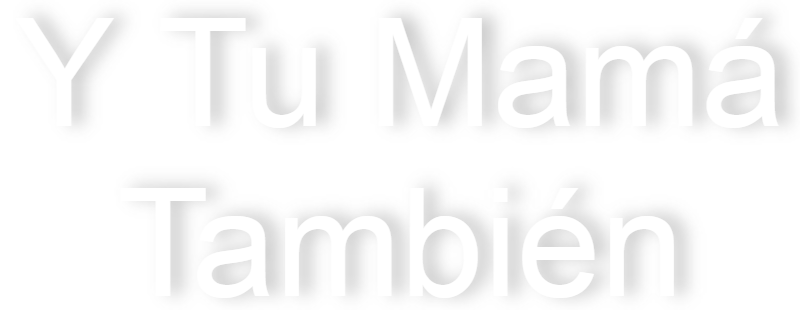
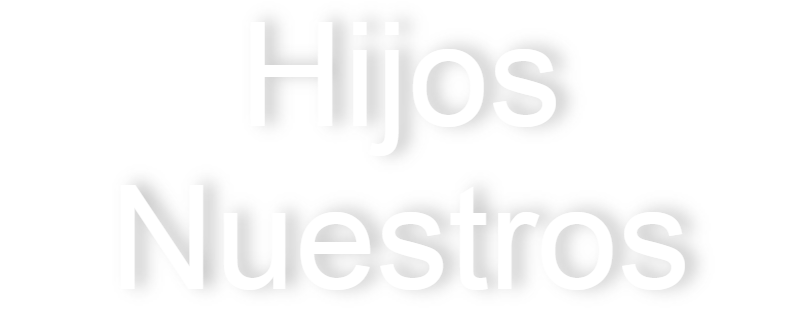
library commit

diff --git a/build/static/js/main.c47566d1.chunk.js b/build/static/js/main.c47566d1.chunk.js
@@ -1,0 +1,2 @@
+(this["webpackJsonpamazon-clone"]=this["webpackJsonpamazon-clone"]||[]).push([[5],{1070:function(e,a){},1075:function(e,a){},1088:function(e,a){},1125:function(e,a){},1127:function(e,a){},1133:function(e,a){},1145:function(e,a){},1148:function(e,a){},1154:function(e,a){},1165:function(e,a){},1228:function(e,a,t){},1229:function(e,a,t){"use strict";t.r(a);var n=t(0),i=t.n(n),o=t(266),s=t.n(o),r=(t(601),t(23)),c=t(9),l=t(48),d=t(1),m=t.n(d),h=t(137),u=(t(602),t(362),t(6)),p=function(){return Object(u.jsx)("div",{children:Object(u.jsx)("svg",{xmlns:"http://www.w3.org/2000/svg",width:"109.4",height:"27.6742",viewBox:"0 0 1049 130",children:Object(u.jsx)("path",{d:"M99.0114 4.36363V128H84.5227L17.1506 30.9261H15.9432V128H0.971592V4.36363H15.4602L83.0739 101.679H84.2812V4.36363H99.0114ZM165.916 129.932C156.981 129.932 149.274 127.96 142.794 124.016C136.355 120.031 131.384 114.477 127.883 107.354C124.422 100.19 122.691 91.8589 122.691 82.3608C122.691 72.8627 124.422 64.4915 127.883 57.2472C131.384 49.9626 136.254 44.2879 142.492 40.223C148.771 36.1179 156.096 34.0653 164.467 34.0653C169.296 34.0653 174.066 34.8703 178.774 36.4801C183.483 38.09 187.769 40.706 191.633 44.3281C195.497 47.91 198.575 52.6591 200.87 58.5753C203.164 64.4915 204.311 71.776 204.311 80.429V86.4659H132.833V74.1506H189.822C189.822 68.9186 188.776 64.25 186.683 60.1449C184.63 56.0398 181.692 52.7999 177.869 50.4254C174.086 48.0509 169.618 46.8636 164.467 46.8636C158.792 46.8636 153.882 48.2723 149.737 51.0895C145.632 53.8665 142.472 57.4886 140.259 61.956C138.045 66.4233 136.938 71.2126 136.938 76.3239V84.5341C136.938 91.5369 138.146 97.4732 140.561 102.343C143.016 107.173 146.416 110.855 150.763 113.391C155.11 115.886 160.16 117.134 165.916 117.134C169.659 117.134 173.039 116.61 176.058 115.564C179.116 114.477 181.753 112.867 183.966 110.734C186.18 108.561 187.89 105.865 189.097 102.645L202.862 106.509C201.413 111.177 198.978 115.282 195.557 118.824C192.136 122.325 187.91 125.062 182.879 127.034C177.849 128.966 172.194 129.932 165.916 129.932ZM246.992 128L218.739 35.2727H233.71L253.753 106.267H254.719L274.52 35.2727H289.733L309.293 106.026H310.259L330.301 35.2727H345.273L317.02 128H303.014L282.73 56.7642H281.281L260.997 128H246.992ZM366.04 128V4.36363H440.173V17.6449H381.012V59.4205H434.619V72.7017H381.012V128H366.04ZM463.884 128V35.2727H478.131V128H463.884ZM471.128 19.8182C468.351 19.8182 465.956 18.8724 463.944 16.9808C461.972 15.0893 460.986 12.8153 460.986 10.1591C460.986 7.50284 461.972 5.22893 463.944 3.33735C465.956 1.44578 468.351 0.5 471.128 0.5C473.905 0.5 476.279 1.44578 478.251 3.33735C480.264 5.22893 481.27 7.50284 481.27 10.1591C481.27 12.8153 480.264 15.0893 478.251 16.9808C476.279 18.8724 473.905 19.8182 471.128 19.8182ZM518.472 4.36363V128H504.225V4.36363H518.472ZM544.567 128V35.2727H558.331V49.7614H559.539C561.471 44.8111 564.59 40.9676 568.896 38.2308C573.202 35.4538 578.374 34.0653 584.411 34.0653C590.528 34.0653 595.619 35.4538 599.684 38.2308C603.789 40.9676 606.989 44.8111 609.283 49.7614H610.249C612.623 44.9721 616.185 41.1688 620.934 38.3516C625.683 35.4941 631.378 34.0653 638.019 34.0653C646.31 34.0653 653.091 36.6612 658.363 41.853C663.636 47.0045 666.272 55.0336 666.272 65.9403V128H652.025V65.9403C652.025 59.0985 650.153 54.2086 646.41 51.2706C642.667 48.3326 638.26 46.8636 633.189 46.8636C626.669 46.8636 621.618 48.8357 618.037 52.7798C614.455 56.6837 612.664 61.634 612.664 67.6307V128H598.175V64.4915C598.175 59.2192 596.465 54.9732 593.044 51.7535C589.623 48.4936 585.216 46.8636 579.823 46.8636C576.12 46.8636 572.659 47.8497 569.439 49.8217C566.26 51.7938 563.684 54.5305 561.712 58.032C559.78 61.4931 558.814 65.4976 558.814 70.0455V128H544.567ZM679.689 17.6449V4.36363H772.416V17.6449H733.538V128H718.567V17.6449H679.689ZM819.021 129.932C810.086 129.932 802.379 127.96 795.9 124.016C789.46 120.031 784.49 114.477 780.988 107.354C777.527 100.19 775.797 91.8589 775.797 82.3608C775.797 72.8627 777.527 64.4915 780.988 57.2472C784.49 49.9626 789.36 44.2879 795.598 40.223C801.876 36.1179 809.201 34.0653 817.572 34.0653C822.402 34.0653 827.171 34.8703 831.88 36.4801C836.589 38.09 840.875 40.706 844.738 44.3281C848.602 47.91 851.681 52.6591 853.975 58.5753C856.269 64.4915 857.416 71.776 857.416 80.429V86.4659H785.939V74.1506H842.927C842.927 68.9186 841.881 64.25 839.788 60.1449C837.736 56.0398 834.798 52.7999 830.974 50.4254C827.191 48.0509 822.724 46.8636 817.572 46.8636C811.898 46.8636 806.988 48.2723 802.842 51.0895C798.737 53.8665 795.578 57.4886 793.364 61.956C791.151 66.4233 790.044 71.2126 790.044 76.3239V84.5341C790.044 91.5369 791.251 97.4732 793.666 102.343C796.121 107.173 799.522 110.855 803.868 113.391C808.215 115.886 813.266 117.134 819.021 117.134C822.764 117.134 826.145 116.61 829.163 115.564C832.222 114.477 834.858 112.867 837.072 110.734C839.285 108.561 840.996 105.865 842.203 102.645L855.967 106.509C854.518 111.177 852.083 115.282 848.662 118.824C845.242 122.325 841.016 125.062 835.985 127.034C830.954 128.966 825.3 129.932 819.021 129.932ZM916.759 129.932C908.066 129.932 900.58 127.879 894.302 123.774C888.023 119.669 883.194 114.014 879.813 106.81C876.432 99.6063 874.742 91.3759 874.742 82.1193C874.742 72.7017 876.473 64.3909 879.934 57.1868C883.435 49.9425 888.305 44.2879 894.543 40.223C900.822 36.1179 908.146 34.0653 916.518 34.0653C923.037 34.0653 928.913 35.2727 934.145 37.6875C939.377 40.1023 943.664 43.483 947.004 47.8295C950.345 52.1761 952.417 57.2472 953.222 63.0426H938.975C937.888 58.8168 935.474 55.0739 931.731 51.8139C928.028 48.5137 923.037 46.8636 916.759 46.8636C911.205 46.8636 906.335 48.3125 902.15 51.2102C898.004 54.0677 894.765 58.1124 892.43 63.3445C890.136 68.5362 888.989 74.6335 888.989 81.6364C888.989 88.8002 890.116 95.0384 892.37 100.351C894.664 105.663 897.884 109.789 902.029 112.727C906.215 115.665 911.125 117.134 916.759 117.134C920.462 117.134 923.822 116.49 926.841 115.202C929.859 113.914 932.415 112.062 934.508 109.648C936.6 107.233 938.09 104.335 938.975 100.955H953.222C952.417 106.428 950.425 111.358 947.246 115.745C944.106 120.092 939.941 123.553 934.749 126.129C929.598 128.664 923.601 129.932 916.759 129.932ZM988.297 72.2188V128H974.05V4.36363H988.297V49.7614H989.504C991.677 44.9721 994.937 41.1688 999.284 38.3516C1003.67 35.4941 1009.51 34.0653 1016.79 34.0653C1023.11 34.0653 1028.64 35.3331 1033.39 37.8686C1038.14 40.3639 1041.82 44.2074 1044.44 49.3991C1047.1 54.5507 1048.42 61.1108 1048.42 69.0795V128H1034.18V70.0455C1034.18 62.6804 1032.27 56.9856 1028.44 52.9609C1024.66 48.8961 1019.41 46.8636 1012.69 46.8636C1008.02 46.8636 1003.83 47.8497 1000.13 49.8217C996.467 51.7938 993.569 54.6714 991.436 58.4545C989.343 62.2377 988.297 66.8258 988.297 72.2188Z",fill:"white"})})})},b=t(62),g=t.p+"static/media/titanicScene.909e8881.png",f=t.p+"static/media/tit.1d9d7c71.png",j=(t.p,t.p+"static/media/spidey.eb6a1f82.png"),C=t.p+"static/media/jumanji.efe29389.png",v=t.p+"static/media/wolf.5c663605.png",x=t.p+"static/media/mrs.f7b9879c.png",y=t.p+"static/media/hob.4adfa805.png",O=(t.p,t.p,t.p+"static/media/moralis.bd32f8cb.png"),w=(t.p,t.p,t.p+"static/media/jam.8a478866.png"),D=(t.p,t.p,t.p+"static/media/bayw.d9b5bae2.png"),M=t.p+"static/media/shrek.a2808d64.png",N=t.p+"static/media/lucy.221a740f.png",A=t.p+"static/media/topgu.a9eb51b4.png",L=t.p+"static/media/imit.61aac537.png",H=t.p+"static/media/reven.7d949cd2.png",S=t.p+"static/media/tomb.7cdfcde8.png",V=t.p+"static/media/amaz.d2321471.png",G=t.p+"static/media/bigs.9c733b13.png",k=t.p+"static/media/secona.b0359c1b.png",T=t.p+"static/media/ted.0cae77f5.png",z=t.p+"static/media/amerp.f58c79b2.png",Y=t.p+"static/media/caballeroaguilatext.45a4a5da.png",F=t.p+"static/media/desiertotext.0bfd42c3.png",I=t.p+"static/media/despuesdeluciatext.5d64975f.png",P=t.p+"static/media/entrevivasyalabadostext.7ec3c673.png",K=t.p+"static/media/fogotext.a9f2adac.png",E=t.p+"static/media/guerostext.7c4fb30c.png",B=t.p+"static/media/juanoroltext.d6501ec7.png",R=t.p+"static/media/lanocheasturianatext.7b92454f.png",Z=t.p+"static/media/losdeabajotext.6dd28f07.png",J=t.p+"static/media/losmuertostext.baf91ba7.png",X=t.p+"static/media/losultimostext.c5ab3f99.png",q=t.p+"static/media/maimoriretext.814025c4.png",Q=t.p+"static/media/readyornottext.c63a398e.png",U=t.p+"static/media/rectorectoganchotext.f04abe4f.png",W=t.p+"static/media/tautext.ebc8e691.png",$=t.p+"static/media/tempestadtext.5248f57f.png",_=t.p+"static/media/tiemposfelicestext.6f1c4c3d.png",ee=t.p+"static/media/verloendomingotext.f33ffa80.png",ae=t.p+"static/media/yanoestoyaquitext.ea184cf5.png",te=t.p+"static/media/ytumamatambientext.f40c0670.png",ne=t.p+"static/media/desiertoescena.6ed799b3.png",ie=t.p+"static/media/despuesdelucia2escena.5d45a4b4.png",oe=t.p+"static/media/entrevivasyalabadosescena.bd0d9d6c.png",se=t.p+"static/media/fogoescena.14b082ec.png",re=t.p+"static/media/guerosescena.8e1b5c7d.png",ce=t.p+"static/media/juanorolescena.9767f279.png",le=t.p+"static/media/lanocheasturianaescena.3cb62b16.png",de=t.p+"static/media/losdeabajoescena.87130e07.png",me=t.p+"static/media/losmuertosescena.738ee370.png",he=t.p+"static/media/losultimosescena.db52a7b9.png",ue=t.p+"static/media/maimorireescena.be4246a1.png",pe=t.p+"static/media/readyornotescena.9f876f7b.png",be=t.p+"static/media/rectorectoganchoescena.d283b4ea.png",ge=t.p+"static/media/tauescena.8c655001.png",fe=t.p+"static/media/tempestadescena.fb2850dc.png",je=t.p+"static/media/tiemposfelices2escena.e808f80f.png",Ce=(t.p,t.p+"static/media/verloendomingoescena.0320e00b.png"),ve=t.p+"static/media/yanoestoyaquiescena.d6c62cb8.png",xe=[{Movie:"https://ipfs.io/ipfs/QmXbyGe8YWME5anef6Vvc4NooxUCdGgy4BQ5e8CespGeJ3?filename=0.mp4",Thumnbnail:f,Scene:g,Logo:Y,Name:"Caballero \xc1guila",Description:"Upon finishing high school, three friends must choose the path their lives will take. Pastor dreams of flying and the love of Flor, the sister of a jealous Nacho, who will look for an easy way out by enlisting in the ranks of crime.",Genre:"Action-Adventure, Drama",Actors:"Luis Alberti, Mar\xeda Cid",Year:"2022",Duration:"98 min"},{Movie:"https://ipfs.io/ipfs/Qme3dgQmNNXwMgvKWRmg5DxMiEYKu2v9gMSNuwJS7LD5K6?filename=1a.mp4",Thumnbnail:j,Scene:ce,Logo:B,Name:"El Fant\xe1stico Mundo de Juan Orol",Description:"The film freely narrates the biography of one of the icons in the history of Mexican cinema: Juan Orol, a man of Galician origin who, after various adventures, arrived in Mexico to become, involuntarily, the creator of several cinematographic genres, among which the Rumberas Cinema and the Gangster Cinema stand out, obtaining enormous success at the box office but with terrible reviews. He became known as the involuntary surrealist.",Genre:"Black-Comedy, Biopic",Actors:"Roberto Sosa, Ximena Rubio, Gabriela de la Garza",Year:"2012",Duration:"94 min"},{Movie:"https://ipfs.io/ipfs/QmPRHxDPo7eePL2JdYEt9ohwEhVQZqPSVd3WdGWQg3EK21?filename=2.mp4",Thumnbnail:C,Scene:je,Logo:_,Name:"Tiempos Felices",Description:"Max is a young man who, fed up with his relationship, has tried everything to break up with his girlfriend, but he can't do it. Desperate, he hires the services of a breakup agency, only to discover that there is no perfect solution.",Genre:"Comedy",Actors:"Cassandra Ciangherotti, Luis Arrieta",Year:"2015",Duration:"88 min"},{Movie:"",Thumnbnail:O,Scene:ue,Logo:q,Name:"Mai Morire",Description:"Chayo returns to Xochimilco to care for her elderly mother, but the comfort of traditional life makes her choose a marriage that will make her abandon her ideals. Her particular perceptions and her absolute faith in life will force her to commit the greatest sacrifice a mother can make.",Genre:"Rural Drama",Actors:"Margarita Salda\xf1a, Amalia Salas, Juan Chirinos",Year:"2012",Duration:"89 min"},{Movie:"",Thumnbnail:v,Scene:me,Logo:J,Name:"Los Muertos",Description:"A weekend in the lives of five wealthy young people, whose common characteristic is apathy and excess, is interrupted by the momentary appearance of national violence and the accidental death of one of its members.",Genre:"Drama",Actors:"Elena Larrea, Ignacio Beteta, Santiago Corcuera",Year:"2014",Duration:"89 min"},{Movie:"",Thumnbnail:x,Scene:ge,Logo:W,Name:"T\xe1u",Description:"T\xe1u is the story of Gustavo (Brontis Jodorowsky), a man who travels to the Wirikuta desert, where he will confront his deepest pain.",Genre:"Drama",Actors:"Brontis Jodorowsky, Mariana Gonzal\xe9z",Year:"2012",Duration:"80 min"},{Movie:"",Thumnbnail:w,Scene:le,Logo:R,Name:"La Noche Asturiana",Description:"Direcci\xf3n / Diego Graue, M\xfasica original / Pablo Acevedo, Productor / Juan Sarquis, Fotograf\xeda / Felipe Perez Bouchard, Productora /Filmaciones de la Ciudad.",Genre:"Drama",Actors:"Rene Reyes, Mau Escobar",Year:"2015",Duration:"145 min"},{Movie:"",Thumnbnail:y,Scene:se,Logo:K,Name:"Fogo",Description:"An unknown phenomenon threatens the lives of the rural community of Fogo, located on a small island in the region of Newfoundland, Canada. It has already been almost completely abandoned. Although the chances of surviving there are slim, some residents cling to the place.",Genre:"Drama, Documental",Actors:"Norman Foley, Ron Broders, Joseph Dwyer",Year:"2012",Duration:"61 min"},{Movie:"",Thumnbnail:M,Scene:Ce,Logo:ee,Name:"Verlo en Domingo",Description:"After a night of drinking a city dweller - Domingo- is caught in a fight with the neighborhoods mechanic. Therefore he decides to avoid problems through his escape, and makes his way to Acapulco Bay; this being his first adventure away from Mexico city. On the road to the beach, he will meet a woman who will make him choose between fulfilling their love or his dream to see the sea for the first time.",Genre:"Adventure, Drama, Romance",Actors:"Ramon \xc1lvarez, Mireille Anaya",Year:"2009",Duration:"16 min"},{Movie:"",Thumnbnail:H,Scene:pe,Logo:Q,Name:"Ready or Not",Description:"Four college buddies find themselves on the adventure of their lives, when on the morning after a Las Vegas bachelor party, they end up stranded deep in Mexico penniless, being chased, falling in love, and fighting to make it back across the border in time for the wedding.",Genre:"Comedy",Actors:"Christian Oliver, Seamus Dever, Evan Helmuth",Year:"2009",Duration:"88 min"},{Movie:"",Thumnbnail:L,Scene:be,Logo:U,Name:"Recto Recto Gancho",Description:"The legendary 'Faraonica San Juan Boxing Arena' is once again the scenario for an epic encounter, this time between 'Choko' Tabarez and 'Duvalin' Espadas. Everything seems to be ready to enjoy round after round of pugilist talent, when all of a sudden, an unexpected uppercut changes the outcome of the fight and the course of the night for all those present.",Genre:"Short, Action, Comedy, Sport",Actors:"Marco Aurelio, Alejandro Bl\xe1zquez, Alfonso Borbolla",Year:"2010",Duration:"11 min"},{Movie:"",Thumnbnail:A,Scene:he,Logo:X,Name:"Los \xdaltimos",Description:"Direcci\xf3n: Santiago F\xe1bregas, Producci\xf3n: Mariana Rodr\xedguez Cabarga y Gabriel Stavenhagen, Fotograf\xeda: Ximena del Valle, Dise\xf1o Sonoro: Enrique Dom\xednguez, Edici\xf3n: Branko G\xf3mez- Palacio, Direcci\xf3n de Arte: Pedro Pablo Etienne, M\xfasica: Ra\xfal Vizzi",Genre:"Short Film",Actors:"n/a",Year:"2012",Duration:"14 min"},{Movie:"",Thumnbnail:N,Scene:t.p+"static/media/ytumamatambienescena.21d9fc19.png",Logo:te,Name:"Hijos Nuestros",Description:"Sometimes links can be built from passions. Sometimes those bonds can turn into passions. A fanatic Buenos Aires taxi driver from San Lorenzo crosses paths with a single mother and her son.",Genre:"Drama",Actors:"Carlos Portaluppi, Ana Katz, Valent\xedn Greco",Year:"2015",Duration:"87 min"},{Movie:"",Thumnbnail:D,Scene:ve,Logo:ae,Name:"El Verano que te Vimos",Description:"After a year without seeing each other, a group of friends gets together to spend the New Year's in the countryside. During the next days, unsolved problems and tensions from the past will surface that need to be faced sooner or later.",Genre:"Drama",Actors:"Ary Aguil\xf3, Santiago Luna, Camila Murias",Year:"2021",Duration:"80 min"},{Movie:"",Thumnbnail:S,Scene:de,Logo:Z,Name:"Los de abajo",Description:"Mexican author Mariano Azuela's novel about a peasant who joins a group of rebels who fight in the Mexican Revolution.",Genre:"Drama / World Cinema",Actors:"Eric del Castillo, Enrique Lucero",Year:"1978",Duration:"115 min"},{Movie:"",Thumnbnail:V,Scene:fe,Logo:$,Name:"Tempestad",Description:"A documentary film about the unspeakable abyss in the lives of two women, one deprived of her liberty and the other marked by the absence of her disappeared daughter. Through images that immerse us in a journey from north to south in Mexico, the testimonies of Miriam and Adela configure a reality where violence has taken control of our lives, our desires and dreams.",Genre:"Documentary",Actors:"Miriam Carvajal y Adela Alvarado",Year:"2016",Duration:"105 min"},{Movie:"",Thumnbnail:G,Scene:re,Logo:E,Name:"Un d\xeda en la vida de La\xeda",Description:"A day in the life of a Mexico City runner preparing herself for her biggest race. Reminiscing on how it all started by following her true convictions and beliefs she unlocks her full potential while remaining level headed, humble and fun.",Genre:"Documentary",Actors:"n/a",Year:"2011",Duration:"n/a"},{Movie:"",Thumnbnail:k,Scene:ne,Logo:F,Name:"Desierto",Description:"A group of people trying to cross the border from Mexico into the United States encounter a racist man who has taken border patrol duties into his own hands.",Genre:"Action, Adventure, Thriller",Actors:"Gael Garc\xeda Bernal, Jeffrey Dean Morgan, Alondra Hidalgo ",Year:"2015",Duration:"88 min"},{Movie:"",Thumnbnail:T,Scene:oe,Logo:P,Name:"Entre Vivas y Alabados: La fiesta grande de Chapa de Corso",Description:"Documentary that explores the tradition and its meanings within the great festival of January in Chiapa de Corso, a beautiful town on the banks of the Grijalba River, at the gate of the Sump Canyon, in the state of Chiapas. A waste of joy, color and celebration accompanied by the traditional music of the region and the unmistakable dances of the Parachico and the Chunta.",Genre:"Documentary",Actors:"n/a",Year:"2012",Duration:"n/a"},{Movie:"",Thumnbnail:z,Scene:ie,Logo:I,Name:"Despu\xe9s de Luc\xeda",Description:"Alejandra and her dad Roberto have just moved to town. She is new at school, he has a new job. Starting over is sometimes complicated when you have left so much behind.",Genre:"Drama",Actors:"Tessa Ia, Hern\xe1n Mendoza, Gonzalo Vega Jr.",Year:"2012",Duration:"103 min"}],ye=t.p+"static/media/nwftlogosmall.a905a5dd.png",Oe=t(107),we=function(){var e=Object(n.useState)(!1),a=Object(l.a)(e,2),t=a[0],i=a[1],o=Object(n.useState)(),s=Object(l.a)(o,2),r=s[0],d=s[1],g=Object(Oe.b)(),f=g.isAuthenticated,j=g.Moralis,C=g.account,v=Object(n.useState)(),x=Object(l.a)(v,2),y=x[0],O=x[1];Object(n.useEffect)((function(){function e(){return(e=Object(c.a)(m.a.mark((function e(){var a,t;return m.a.wrap((function(e){for(;;)switch(e.prev=e.next){case 0:return e.next=2,j.start({serverUrl:"https://if2xxpzacmpo.usemoralis.com:2053/server",appId:"M63Svb49HZGjjHfN12sIt3IXcMEKKK3KZri2Tcli"});case 2:return console.log(C),e.next=5,j.Cloud.run("getMyList",{addrs:C});case 5:a=e.sent,t=xe.filter((function(e){return a.indexOf(e.Name)>-1})),O(t);case 8:case"end":return e.stop()}}),e)})))).apply(this,arguments)}f&&function(){e.apply(this,arguments)}(),console.log(f)}),[C,j,f]);var w=Object(b.h)(),D=function(){w({type:"error",message:"Pleaser Connect Your Crypto Wallet",title:"Not Authenticated",position:"topL"})};return Object(u.jsxs)(u.Fragment,{children:[Object(u.jsx)("div",{className:"logo",children:Object(u.jsx)(p,{children:Object(u.jsx)("img",{src:ye,width:"100",height:"100"})})}),Object(u.jsx)("div",{className:"connect",children:Object(u.jsx)(b.b,{})}),Object(u.jsxs)("div",{className:"topBanner",children:[Object(u.jsxs)(b.g,{style:{zIndex:3},defaultActiveKey:1,tabStyle:"bar",children:[Object(u.jsx)(b.f,{}),Object(u.jsx)(b.f,{tabKey:7,tabName:"   ",style:{zIndex:1}}),Object(u.jsx)(b.f,{tabKey:6,tabName:"   ",style:{zIndex:1}}),Object(u.jsx)(b.f,{tabKey:5,tabName:"",style:{zIndex:1}}),Object(u.jsx)(b.f,{tabKey:4,tabName:"",style:{zIndex:1}}),Object(u.jsxs)(b.f,{tabKey:1,tabName:"Catalog",style:{zIndex:3},children:[Object(u.jsxs)("div",{className:"scene",children:[Object(u.jsx)("div",{children:Object(u.jsx)("p",{})}),Object(u.jsx)("img",{src:xe[0].Scene,className:"sceneImg",alt:""}),Object(u.jsx)("img",{className:"sceneLogo",src:xe[0].Logo,alt:""}),Object(u.jsx)("p",{className:"sceneDesc",children:xe[0].Description})]}),Object(u.jsx)("div",{className:"title",children:"Movies"}),Object(u.jsx)("div",{className:"thumbs",children:xe&&xe.map((function(e,a){return Object(u.jsx)("img",{src:e.Thumnbnail,className:"thumbnail",alt:"",onClick:function(){d(e),i(!0)}},a)}))})]}),Object(u.jsx)(b.f,{tabKey:3,tabName:"MyList",style:{zIndex:3},children:Object(u.jsxs)("div",{className:"ownListContent",children:[Object(u.jsx)("div",{className:"title",children:"Your Library"}),y&&f?Object(u.jsx)(u.Fragment,{children:Object(u.jsx)("div",{className:"ownThumbs",children:y.map((function(e,a){return Object(u.jsx)("img",{src:e.Thumnbnail,className:"thumbnail",alt:"",onClick:function(){d(e),i(!0)}},a)}))})}):Object(u.jsx)("div",{className:"ownThumbs",children:"You need to Authenicate to view your own list"})]})})]}),r&&Object(u.jsx)("div",{className:"modal",children:Object(u.jsx)(b.d,{onCloseButtonPressed:function(){return i(!1)},isVisible:t,hasFooter:!1,width:"1000px",children:Object(u.jsxs)("div",{className:"modalContent",children:[Object(u.jsx)("img",{src:r.Scene,className:"modalImg",alt:""}),Object(u.jsx)("img",{className:"modalLogo",src:r.Logo,alt:""}),Object(u.jsx)("div",{className:"modalPlayButton",children:f?Object(u.jsxs)(u.Fragment,{children:[Object(u.jsx)(h.b,{to:"/player",state:r.Movie,children:Object(u.jsx)(b.a,{icon:"chevronRightX2",text:"Play",theme:"secondary",type:"button"})}),Object(u.jsx)(b.a,{icon:"plus",text:"Generate Token",theme:"translucent",type:"button",onClick:Object(c.a)(m.a.mark((function e(){return m.a.wrap((function(e){for(;;)switch(e.prev=e.next){case 0:return e.next=2,j.Cloud.run("updateMyList",{addrs:C,newFav:r.Name});case 2:w({type:"success",message:"Movie Added to List",title:"Success",position:"topL"});case 3:case"end":return e.stop()}}),e)})))})]}):Object(u.jsxs)(u.Fragment,{children:[Object(u.jsx)(b.a,{icon:"chevronRightX2",text:"Play",theme:"secondary",type:"button",onClick:D}),Object(u.jsx)(b.a,{icon:"plus",text:"Movie Token",theme:"translucent",type:"button",onClick:D})]})}),Object(u.jsxs)("div",{className:"movieInfo",children:[Object(u.jsxs)("div",{className:"description",children:[Object(u.jsxs)("div",{className:"details",children:[Object(u.jsx)("span",{children:r.Year}),Object(u.jsx)("span",{children:r.Duration})]}),r.Description]}),Object(u.jsxs)("div",{className:"detailedInfo",children:["Genre:",Object(u.jsx)("span",{className:"deets",children:r.Genre}),Object(u.jsx)("br",{}),"Actors:",Object(u.jsx)("span",{className:"deets",children:r.Actors}),Object(u.jsx)("div",{})]})]})]})})})]})]})},De=function(){var e=Object(r.e)().state;return Object(u.jsx)(u.Fragment,{children:Object(u.jsxs)("div",{className:"playerPage",children:[Object(u.jsx)("video",{autoPlay:!0,controls:!0,className:"videoPlayer",children:Object(u.jsx)("source",{src:e,type:"video/mp4"})}),Object(u.jsx)("div",{className:"backHome",children:Object(u.jsx)(h.b,{to:"/",children:Object(u.jsx)(b.c,{className:"backButton",fill:"rgba(255,255,255,0.25)",size:60,svg:"arrowCircleLeft"})})})]})})},Me=(t(1228),function(){return Object(u.jsx)("div",{className:"appDiv",children:Object(u.jsxs)(r.c,{children:[Object(u.jsx)(r.a,{path:"/",element:Object(u.jsx)(we,{})}),Object(u.jsx)(r.a,{path:"/player",element:Object(u.jsx)(De,{})})]})})}),Ne=function(e){e&&e instanceof Function&&t.e(18).then(t.bind(null,1443)).then((function(a){var t=a.getCLS,n=a.getFID,i=a.getFCP,o=a.getLCP,s=a.getTTFB;t(e),n(e),i(e),o(e),s(e)}))};s.a.render(Object(u.jsxs)(i.a.StrictMode,{children:[Object(u.jsx)(Oe.a,{appId:"M63Svb49HZGjjHfN12sIt3IXcMEKKK3KZri2Tcli",serverUrl:"https://if2xxpzacmpo.usemoralis.com:2053/server"}),Object(u.jsx)(Oe.a,{appId:"M63Svb49HZGjjHfN12sIt3IXcMEKKK3KZri2Tcli",serverUrl:"https://if2xxpzacmpo.usemoralis.com:2053/server",children:Object(u.jsx)(b.e,{children:Object(u.jsx)(h.a,{children:Object(u.jsx)(Me,{})})})})]}),document.getElementById("root")),Ne()},362:function(e,a,t){},601:function(e,a,t){},602:function(e,a,t){},869:function(e,a){},877:function(e,a){},900:function(e,a){},941:function(e,a){},943:function(e,a){},962:function(e,a){},964:function(e,a){},976:function(e,a){},977:function(e,a){},991:function(e,a){},993:function(e,a){}},[[1229,6,7]]]);
+//# sourceMappingURL=main.c47566d1.chunk.js.map

diff --git a/build/index.html b/build/index.html
@@ -1,1 +1,1 @@
-<!doctype html><html lang="en"><head><meta charset="utf-8"/><link rel="icon" href="/favicon.ico"/><meta name="viewport" content="width=device-width,initial-scale=1"/><meta name="theme-color" content="#000000"/><meta name="description" content="Web site created using create-react-app"/><link rel="apple-touch-icon" href="/logo192.png"/><link rel="manifest" href="/manifest.json"/><script src="https://cdn.jsdelivr.net/npm/magic-sdk/dist/magic.js"></script><title>NewFilmTech</title><link href="/static/css/main.882fca76.chunk.css" rel="stylesheet"></head><body><noscript>You need to enable JavaScript to run this app.</noscript><div id="root"></div><script>!function(e){function r(r){for(var n,u,c=r[0],i=r[1],f=r[2],s=0,p=[];s<c.length;s++)u=c[s],Object.prototype.hasOwnProperty.call(o,u)&&o[u]&&p.push(o[u][0]),o[u]=0;for(n in i)Object.prototype.hasOwnProperty.call(i,n)&&(e[n]=i[n]);for(l&&l(r);p.length;)p.shift()();return a.push.apply(a,f||[]),t()}function t(){for(var e,r=0;r<a.length;r++){for(var t=a[r],n=!0,c=1;c<t.length;c++){var i=t[c];0!==o[i]&&(n=!1)}n&&(a.splice(r--,1),e=u(u.s=t[0]))}return e}var n={},o={6:0},a=[];function u(r){if(n[r])return n[r].exports;var t=n[r]={i:r,l:!1,exports:{}};return e[r].call(t.exports,t,t.exports,u),t.l=!0,t.exports}u.e=function(e){var r=[],t=o[e];if(0!==t)if(t)r.push(t[2]);else{var n=new Promise((function(r,n){t=o[e]=[r,n]}));r.push(t[2]=n);var a,c=document.createElement("script");c.charset="utf-8",c.timeout=120,u.nc&&c.setAttribute("nonce",u.nc),c.src=function(e){return u.p+"static/js/"+({}[e]||e)+"."+{0:"814b9e30",1:"0c1d21a1",2:"59698f9f",3:"ddfc217c",4:"b21f5d2b",8:"3dc01ecc",9:"057af21a",10:"6f61e390",11:"7c291ff8",12:"068d73a4",13:"ef935d20",14:"ab4855c4",15:"6ef57f32",16:"d5ea8d0e",17:"9b958bbe",18:"bfaab614"}[e]+".chunk.js"}(e);var i=new Error;a=function(r){c.onerror=c.onload=null,clearTimeout(f);var t=o[e];if(0!==t){if(t){var n=r&&("load"===r.type?"missing":r.type),a=r&&r.target&&r.target.src;i.message="Loading chunk "+e+" failed.\n("+n+": "+a+")",i.name="ChunkLoadError",i.type=n,i.request=a,t[1](i)}o[e]=void 0}};var f=setTimeout((function(){a({type:"timeout",target:c})}),12e4);c.onerror=c.onload=a,document.head.appendChild(c)}return Promise.all(r)},u.m=e,u.c=n,u.d=function(e,r,t){u.o(e,r)||Object.defineProperty(e,r,{enumerable:!0,get:t})},u.r=function(e){"undefined"!=typeof Symbol&&Symbol.toStringTag&&Object.defineProperty(e,Symbol.toStringTag,{value:"Module"}),Object.defineProperty(e,"__esModule",{value:!0})},u.t=function(e,r){if(1&r&&(e=u(e)),8&r)return e;if(4&r&&"object"==typeof e&&e&&e.__esModule)return e;var t=Object.create(null);if(u.r(t),Object.defineProperty(t,"default",{enumerable:!0,value:e}),2&r&&"string"!=typeof e)for(var n in e)u.d(t,n,function(r){return e[r]}.bind(null,n));return t},u.n=function(e){var r=e&&e.__esModule?function(){return e.default}:function(){return e};return u.d(r,"a",r),r},u.o=function(e,r){return Object.prototype.hasOwnProperty.call(e,r)},u.p="/",u.oe=function(e){throw console.error(e),e};var c=this["webpackJsonpamazon-clone"]=this["webpackJsonpamazon-clone"]||[],i=c.push.bind(c);c.push=r,c=c.slice();for(var f=0;f<c.length;f++)r(c[f]);var l=i;t()}([])</script><script src="/static/js/7.251ce498.chunk.js"></script><script src="/static/js/main.89c0d54a.chunk.js"></script></body></html>
+<!doctype html><html lang="en"><head><meta charset="utf-8"/><link rel="icon" href="/favicon.ico"/><meta name="viewport" content="width=device-width,initial-scale=1"/><meta name="theme-color" content="#000000"/><meta name="description" content="Web site created using create-react-app"/><link rel="apple-touch-icon" href="/logo192.png"/><link rel="manifest" href="/manifest.json"/><script src="https://cdn.jsdelivr.net/npm/magic-sdk/dist/magic.js"></script><title>NewFilmTech</title><link href="/static/css/main.882fca76.chunk.css" rel="stylesheet"></head><body><noscript>You need to enable JavaScript to run this app.</noscript><div id="root"></div><script>!function(e){function r(r){for(var n,u,c=r[0],i=r[1],f=r[2],s=0,p=[];s<c.length;s++)u=c[s],Object.prototype.hasOwnProperty.call(o,u)&&o[u]&&p.push(o[u][0]),o[u]=0;for(n in i)Object.prototype.hasOwnProperty.call(i,n)&&(e[n]=i[n]);for(l&&l(r);p.length;)p.shift()();return a.push.apply(a,f||[]),t()}function t(){for(var e,r=0;r<a.length;r++){for(var t=a[r],n=!0,c=1;c<t.length;c++){var i=t[c];0!==o[i]&&(n=!1)}n&&(a.splice(r--,1),e=u(u.s=t[0]))}return e}var n={},o={6:0},a=[];function u(r){if(n[r])return n[r].exports;var t=n[r]={i:r,l:!1,exports:{}};return e[r].call(t.exports,t,t.exports,u),t.l=!0,t.exports}u.e=function(e){var r=[],t=o[e];if(0!==t)if(t)r.push(t[2]);else{var n=new Promise((function(r,n){t=o[e]=[r,n]}));r.push(t[2]=n);var a,c=document.createElement("script");c.charset="utf-8",c.timeout=120,u.nc&&c.setAttribute("nonce",u.nc),c.src=function(e){return u.p+"static/js/"+({}[e]||e)+"."+{0:"814b9e30",1:"0c1d21a1",2:"59698f9f",3:"ddfc217c",4:"b21f5d2b",8:"3dc01ecc",9:"057af21a",10:"6f61e390",11:"7c291ff8",12:"068d73a4",13:"ef935d20",14:"ab4855c4",15:"6ef57f32",16:"d5ea8d0e",17:"9b958bbe",18:"bfaab614"}[e]+".chunk.js"}(e);var i=new Error;a=function(r){c.onerror=c.onload=null,clearTimeout(f);var t=o[e];if(0!==t){if(t){var n=r&&("load"===r.type?"missing":r.type),a=r&&r.target&&r.target.src;i.message="Loading chunk "+e+" failed.\n("+n+": "+a+")",i.name="ChunkLoadError",i.type=n,i.request=a,t[1](i)}o[e]=void 0}};var f=setTimeout((function(){a({type:"timeout",target:c})}),12e4);c.onerror=c.onload=a,document.head.appendChild(c)}return Promise.all(r)},u.m=e,u.c=n,u.d=function(e,r,t){u.o(e,r)||Object.defineProperty(e,r,{enumerable:!0,get:t})},u.r=function(e){"undefined"!=typeof Symbol&&Symbol.toStringTag&&Object.defineProperty(e,Symbol.toStringTag,{value:"Module"}),Object.defineProperty(e,"__esModule",{value:!0})},u.t=function(e,r){if(1&r&&(e=u(e)),8&r)return e;if(4&r&&"object"==typeof e&&e&&e.__esModule)return e;var t=Object.create(null);if(u.r(t),Object.defineProperty(t,"default",{enumerable:!0,value:e}),2&r&&"string"!=typeof e)for(var n in e)u.d(t,n,function(r){return e[r]}.bind(null,n));return t},u.n=function(e){var r=e&&e.__esModule?function(){return e.default}:function(){return e};return u.d(r,"a",r),r},u.o=function(e,r){return Object.prototype.hasOwnProperty.call(e,r)},u.p="/",u.oe=function(e){throw console.error(e),e};var c=this["webpackJsonpamazon-clone"]=this["webpackJsonpamazon-clone"]||[],i=c.push.bind(c);c.push=r,c=c.slice();for(var f=0;f<c.length;f++)r(c[f]);var l=i;t()}([])</script><script src="/static/js/7.251ce498.chunk.js"></script><script src="/static/js/main.c47566d1.chunk.js"></script></body></html>

diff --git a/src/helpers/library.jsx b/src/helpers/library.jsx
@@ -221,24 +221,24 @@ export const movies = [
     Thumnbnail: lucy,
     Scene: ytumamatambienescena,
     Logo: ytumamatambientext,
-    Name: "Y tu mamá también",
-    Description: "In Mexico, two teenage boys and an attractive older woman embark on a road trip and learn a thing or two about life, friendship, sex, and each other.",
+    Name: "Hijos Nuestros",
+    Description: "Sometimes links can be built from passions. Sometimes those bonds can turn into passions. A fanatic Buenos Aires taxi driver from San Lorenzo crosses paths with a single mother and her son.",
     Genre: "Drama",
-    Actors: "Maribel Verdú, Gael García Bernal, Diego Luna",
-    Year: "2001",
-    Duration: "106 min",
+    Actors: "Carlos Portaluppi, Ana Katz, Valentín Greco",
+    Year: "2015",
+    Duration: "87 min",
   },
   {
     Movie: "",
     Thumnbnail: bayw,
     Scene: yanoestoyaquiescena,
     Logo: yanoestoyaquitext,
-    Name: "Ya no estoy aquí",
-    Description: "In Monterrey, Mexico, a young street gang spends their days dancing to slowed-down cumbia and attending parties. After a mix-up with a local cartel, their leader is forced to migrate to the U.S. but quickly longs to return home.",
+    Name: "El Verano que te Vimos",
+    Description: "After a year without seeing each other, a group of friends gets together to spend the New Year's in the countryside. During the next days, unsolved problems and tensions from the past will surface that need to be faced sooner or later.",
     Genre: "Drama",
-    Actors: "Juan Daniel García Treviño, Xueming Angelina Chen, Sophia Metcalf",
-    Year: "2019",
-    Duration: "112 min",
+    Actors: "Ary Aguiló, Santiago Luna, Camila Murias",
+    Year: "2021",
+    Duration: "80 min",
   },
   {
     Movie: "",
@@ -269,12 +269,12 @@ export const movies = [
     Thumnbnail: bigs,
     Scene: guerosescena,
     Logo: guerostext,
-    Name: "Gueros",
-    Description: "Tomas is too much for his lone mother so she sends him to live with his older brother Federico, aka Sombra, in Mexico City.",
-    Genre: "Comedy, Drama",
-    Actors: "Tenoch Huerta, Sebastián Aguirre, Ilse Salas",
-    Year: "2014",
-    Duration: "106 min",
+    Name: "Un día en la vida de Laía",
+    Description: "A day in the life of a Mexico City runner preparing herself for her biggest race. Reminiscing on how it all started by following her true convictions and beliefs she unlocks her full potential while remaining level headed, humble and fun.",
+    Genre: "Documentary",
+    Actors: "n/a",
+    Year: "2011",
+    Duration: "n/a",
   },
   {
     Movie: "",
